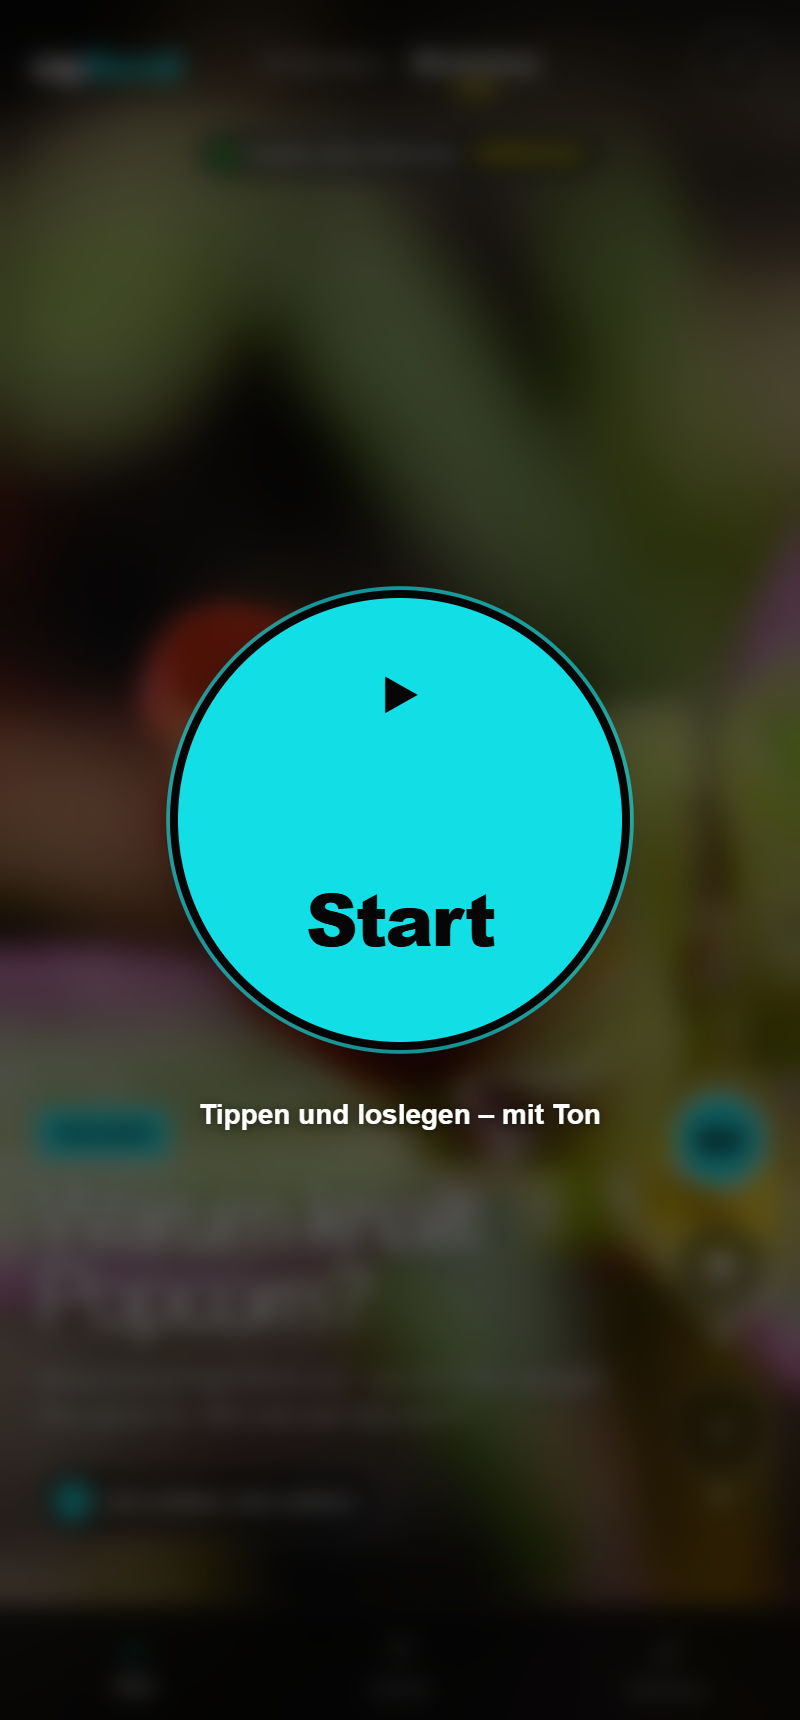
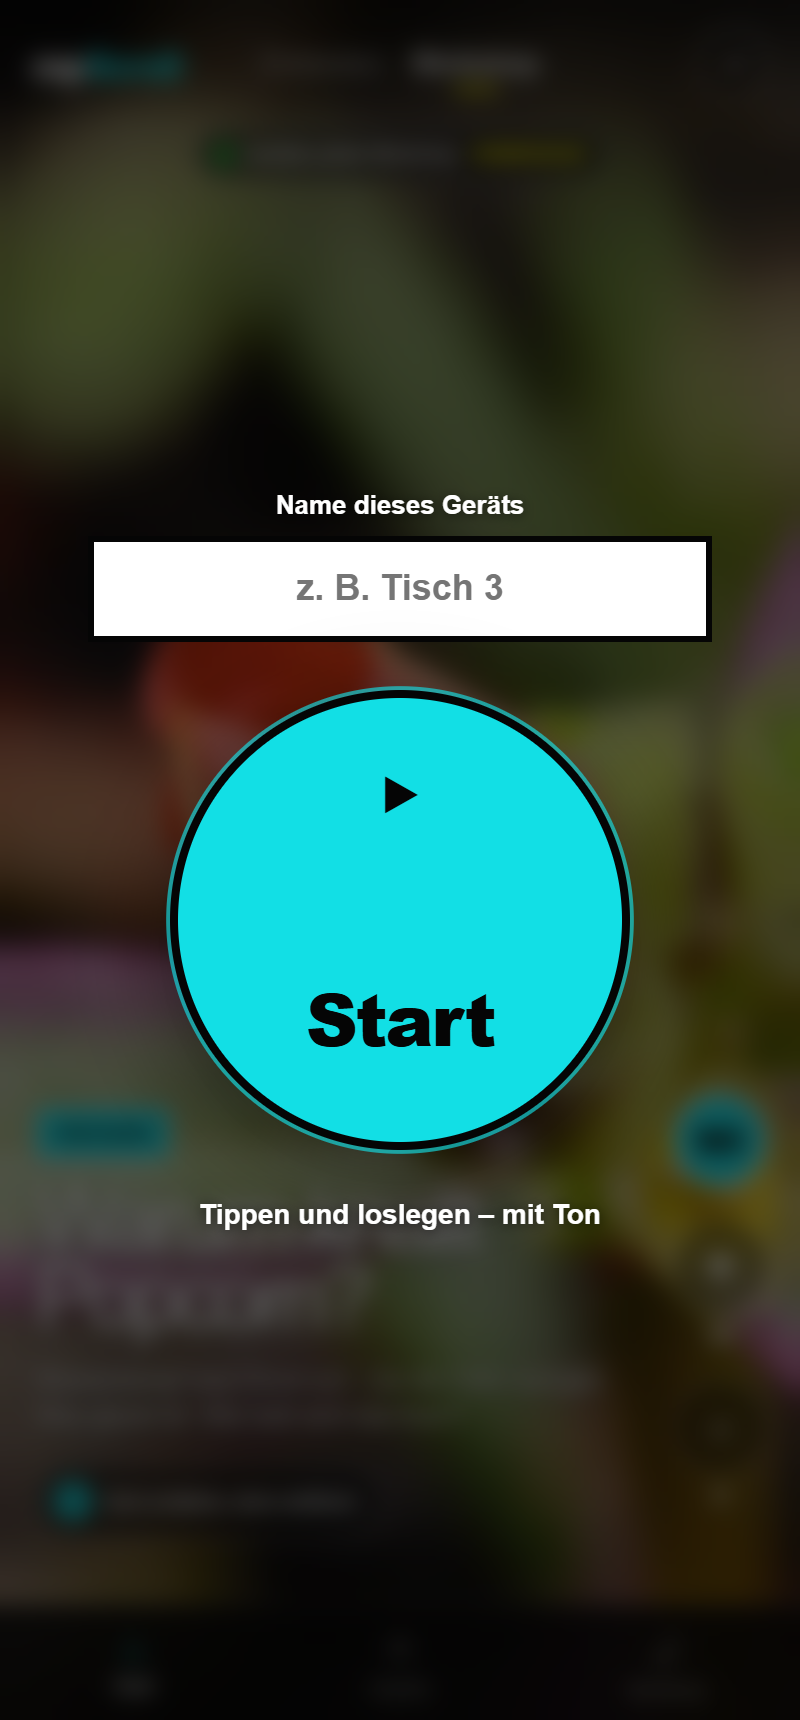
update editor

Changed region(s): [[0.0938, 0.2773, 0.9062, 0.7395]]

diff --git a/public/kit/regie.js b/public/kit/regie.js
@@ -14,6 +14,7 @@ const adminToast = document.querySelector(".admin-toast");
 
 let adminPin = sessionStorage.getItem("mpscroll-admin-pin") || "";
 let adminState = null;
+let editingVideoId = null;
 let toastTimer;
 let pollTimer;
 
@@ -85,6 +86,8 @@ async function unlockDashboard() {
 }
 
 async function refreshState() {
+  // Während des Bearbeitens nicht neu rendern, sonst gingen Eingaben verloren.
+  if (editingVideoId) return;
   try {
     adminState = await api("state");
     render();
@@ -118,8 +121,39 @@ function renderVideos() {
       '<div class="empty-state">Noch keine Clips im Feed. Oben könnt ihr den ersten hinzufügen.</div>';
     return;
   }
+  const accents = [
+    ["cyan", "Cyan"],
+    ["yellow", "Gelb"],
+    ["magenta", "Magenta"],
+    ["green", "Grün"],
+    ["blue", "Blau"],
+    ["red", "Rot"],
+  ];
   videoList.innerHTML = adminState.videos
     .map((video) => {
+      if (video.id === editingVideoId) {
+        const options = accents
+          .map(
+            ([value, label]) =>
+              `<option value="${value}"${video.accent === value ? " selected" : ""}>${label}</option>`,
+          )
+          .join("");
+        return `
+        <article class="video-row is-editing">
+          <form class="video-edit-form" data-video-id="${escapeHtml(video.id)}">
+            <label>Titel<input name="title" maxlength="80" value="${escapeHtml(video.title)}" required /></label>
+            <label>Profilname<input name="channel" maxlength="30" value="${escapeHtml(video.channel)}" required /></label>
+            <label>Kurzbeschreibung<textarea name="description" maxlength="240" rows="2" required>${escapeHtml(video.description)}</textarea></label>
+            <label>Gesprächsimpuls<input name="prompt" maxlength="100" value="${escapeHtml(video.prompt || "")}" /></label>
+            <label>Akzentfarbe<select name="accent">${options}</select></label>
+            <div class="edit-actions">
+              <button type="submit" class="primary-button">Speichern</button>
+              <button type="button" class="cancel-edit">Abbrechen</button>
+            </div>
+          </form>
+        </article>
+      `;
+      }
       const avatar = safeUrl(video.avatarUrl);
       const avatarMarkup = avatar
         ? `<img src="${avatar}" alt="" />`
@@ -131,9 +165,10 @@ function renderVideos() {
             <strong>${escapeHtml(video.title)}</strong>
             <span>${escapeHtml(video.channel)} · ${Number(video.likes || 0)} Likes</span>
           </div>
-          <button class="delete-video" type="button" data-video-id="${escapeHtml(video.id)}">
-            Entfernen
-          </button>
+          <div class="row-actions">
+            <button class="edit-video" type="button" data-video-id="${escapeHtml(video.id)}">Bearbeiten</button>
+            <button class="delete-video" type="button" data-video-id="${escapeHtml(video.id)}">Entfernen</button>
+          </div>
         </article>
       `;
     })
@@ -142,6 +177,46 @@ function renderVideos() {
   videoList.querySelectorAll(".delete-video").forEach((button) => {
     button.addEventListener("click", () => deleteVideo(button.dataset.videoId));
   });
+  videoList.querySelectorAll(".edit-video").forEach((button) => {
+    button.addEventListener("click", () => {
+      editingVideoId = button.dataset.videoId;
+      renderVideos();
+    });
+  });
+  const editForm = videoList.querySelector(".video-edit-form");
+  if (editForm) {
+    editForm.addEventListener("submit", saveVideoEdit);
+    editForm.querySelector(".cancel-edit").addEventListener("click", () => {
+      editingVideoId = null;
+      renderVideos();
+    });
+    editForm.elements.title.focus();
+  }
+}
+
+async function saveVideoEdit(event) {
+  event.preventDefault();
+  const form = event.currentTarget;
+  const submitButton = form.querySelector("button[type='submit']");
+  submitButton.disabled = true;
+  try {
+    await api(`video/${encodeURIComponent(form.dataset.videoId)}`, {
+      method: "PATCH",
+      body: JSON.stringify({
+        title: form.elements.title.value,
+        channel: form.elements.channel.value,
+        description: form.elements.description.value,
+        prompt: form.elements.prompt.value,
+        accent: form.elements.accent.value,
+      }),
+    });
+    editingVideoId = null;
+    showToast("Clip aktualisiert");
+    await refreshState();
+  } catch (error) {
+    submitButton.disabled = false;
+    if (error.message !== "unauthorized") showToast(error.message);
+  }
 }
 
 function renderComments() {
@@ -329,6 +404,29 @@ document.querySelector(".regen-pin").addEventListener("click", async () => {
     await refreshState();
   } catch (error) {
     showToast(error.message);
+  }
+});
+
+document.querySelector(".export-button").addEventListener("click", async () => {
+  try {
+    const response = await fetch(apiUrl("export"), {
+      headers: { "X-Admin-Pin": adminPin },
+      cache: "no-store",
+    });
+    if (!response.ok) throw new Error("Auswertung konnte nicht erstellt werden.");
+    const blob = await response.blob();
+    const url = URL.createObjectURL(blob);
+    const link = document.createElement("a");
+    link.href = url;
+    const stamp = new Date().toISOString().slice(0, 16).replace(/[:T]/g, "-");
+    link.download = `mpscroll-auswertung-${stamp}.csv`;
+    document.body.appendChild(link);
+    link.click();
+    link.remove();
+    URL.revokeObjectURL(url);
+    showToast("Auswertung heruntergeladen");
+  } catch (error) {
+    showToast(error.message || "Export fehlgeschlagen");
   }
 });
 

diff --git a/public/kit/app.js b/public/kit/app.js
@@ -65,6 +65,7 @@ const joinPinInput = document.querySelector("#join-pin");
 const joinError = document.querySelector(".join-error");
 const startOverlay = document.querySelector(".start-overlay");
 const startButton = document.querySelector(".start-button");
+const deviceNameInput = document.querySelector("#device-name");
 
 const storageKey = "mpscroll-workshop-v2";
 const initialLocalState = { liked: {}, counts: {} };
@@ -79,6 +80,7 @@ let openCommentClipId = null;
 let toastTimer;
 let feedSignature = "";
 let joinPin = localStorage.getItem("mpscroll-join-pin") || "";
+let deviceName = localStorage.getItem("mpscroll-device-name") || "";
 
 // Direkt-Beitreten: Der QR-Code der Wand-Ansicht hängt die PIN als #pin=… an.
 // Das Fragment bleibt lokal im Browser und wird nie an den Server gesendet.
@@ -111,6 +113,9 @@ function updateStartOverlay() {
   const published = feedData.settings?.published !== false;
   const show = !soundUnlocked && joinGate.hidden && published && clips.length > 0;
   startOverlay.hidden = !show;
+  if (show && !deviceNameInput.value && deviceName) {
+    deviceNameInput.value = deviceName;
+  }
 }
 
 function loadLocalState() {
@@ -308,7 +313,7 @@ async function toggleLike(clip) {
     const response = await fetch(apiUrl("likes"), {
       method: "POST",
       headers: joinHeaders({ "Content-Type": "application/json" }),
-      body: JSON.stringify({ clipId, delta }),
+      body: JSON.stringify({ clipId, delta, deviceName }),
     });
     if (response.status === 401) {
       showJoinGate("Die PIN wurde geändert. Bitte neu eingeben.");
@@ -383,6 +388,7 @@ async function submitComment(event) {
         clipId: openCommentClipId,
         text,
         deviceId: getDeviceId(),
+        deviceName,
       }),
     });
     if (response.status === 401) {
@@ -500,6 +506,8 @@ function unlockSound() {
 }
 
 function startWorkshop() {
+  deviceName = (deviceNameInput.value || "").trim().slice(0, 40);
+  localStorage.setItem("mpscroll-device-name", deviceName);
   soundUnlocked = true;
   soundOn = true;
   applySound();

diff --git a/public/kit/styles.css b/public/kit/styles.css
@@ -321,8 +321,8 @@ textarea {
 .clip {
   position: relative;
   width: 100%;
-  height: 100svh;
-  min-height: 560px;
+  height: 100%;
+  min-height: 480px;
   overflow: hidden;
   scroll-snap-align: start;
   scroll-snap-stop: always;
@@ -941,6 +941,36 @@ textarea {
   display: none;
 }
 
+.start-name-field {
+  display: flex;
+  flex-direction: column;
+  gap: 8px;
+  width: min(78vw, 320px);
+  text-align: center;
+}
+
+.start-name-field label {
+  color: var(--white);
+  font-size: 13px;
+  font-weight: 700;
+  text-shadow: 0 1px 6px rgba(0, 0, 0, 0.6);
+}
+
+.start-name-field input {
+  width: 100%;
+  padding: 13px 16px;
+  border: 3px solid var(--black);
+  outline: none;
+  background: var(--white);
+  font-size: 18px;
+  font-weight: 700;
+  text-align: center;
+}
+
+.start-name-field input:focus {
+  box-shadow: 0 0 0 4px var(--yellow);
+}
+
 .start-button {
   display: grid;
   gap: 2px;
@@ -1017,6 +1047,23 @@ textarea {
   .brand-panel,
   .independence-note {
     display: none;
+  }
+}
+
+/* iPad/PC: den Handy-Rahmen nicht zu einem endlos hohen Streifen ziehen.
+   Handy-Format beibehalten und vertikal zentrieren – so werden (Querformat-)
+   Videos nicht extrem hochskaliert/beschnitten und der Feed wirkt wie ein
+   zentriertes Handy. */
+@media (min-width: 700px) {
+  body {
+    display: flex;
+    align-items: center;
+    justify-content: center;
+  }
+
+  .phone-stage {
+    height: min(100svh - 28px, 924px);
+    border-radius: 28px;
   }
 }
 

diff --git a/public/kit/regie.css b/public/kit/regie.css
@@ -552,6 +552,7 @@ select:focus {
   font-size: 11px;
 }
 
+.edit-video,
 .delete-video,
 .approve-comment,
 .reject-comment {
@@ -560,6 +561,48 @@ select:focus {
   border-radius: 999px;
   background: var(--white);
   font-size: 10px;
+  font-weight: 800;
+  cursor: pointer;
+}
+
+.edit-video {
+  background: var(--cyan);
+}
+
+.row-actions {
+  display: flex;
+  gap: 7px;
+  align-items: center;
+}
+
+.video-row.is-editing {
+  display: block;
+  background: var(--white);
+}
+
+.video-edit-form {
+  display: flex;
+  flex-direction: column;
+  gap: 12px;
+}
+
+.video-edit-form label {
+  display: flex;
+  flex-direction: column;
+  gap: 5px;
+}
+
+.edit-actions {
+  display: flex;
+  gap: 9px;
+}
+
+.cancel-edit {
+  padding: 12px 17px;
+  border: 1.5px solid var(--black);
+  border-radius: 999px;
+  background: var(--white);
+  font-size: 12px;
   font-weight: 800;
   cursor: pointer;
 }

diff --git a/public/kit/index.html b/public/kit/index.html
@@ -113,6 +113,16 @@
       </div>
 
       <div class="start-overlay" hidden>
+        <div class="start-name-field">
+          <label for="device-name">Name dieses Geräts</label>
+          <input
+            id="device-name"
+            type="text"
+            maxlength="40"
+            autocomplete="off"
+            placeholder="z. B. Tisch 3"
+          />
+        </div>
         <button class="start-button" type="button" aria-label="Workshop starten, mit Ton">
           <span class="start-icon" aria-hidden="true">▶</span>
           Start

diff --git a/public/kit/regie.html b/public/kit/regie.html
@@ -41,6 +41,7 @@
         </div>
         <div class="header-actions">
           <a class="outline-button" href="./index.html" target="_blank">Feed ansehen ↗</a>
+          <button class="export-button outline-button" type="button">Auswertung ⬇</button>
           <button class="logout-button" type="button">Sperren</button>
         </div>
       </header>
